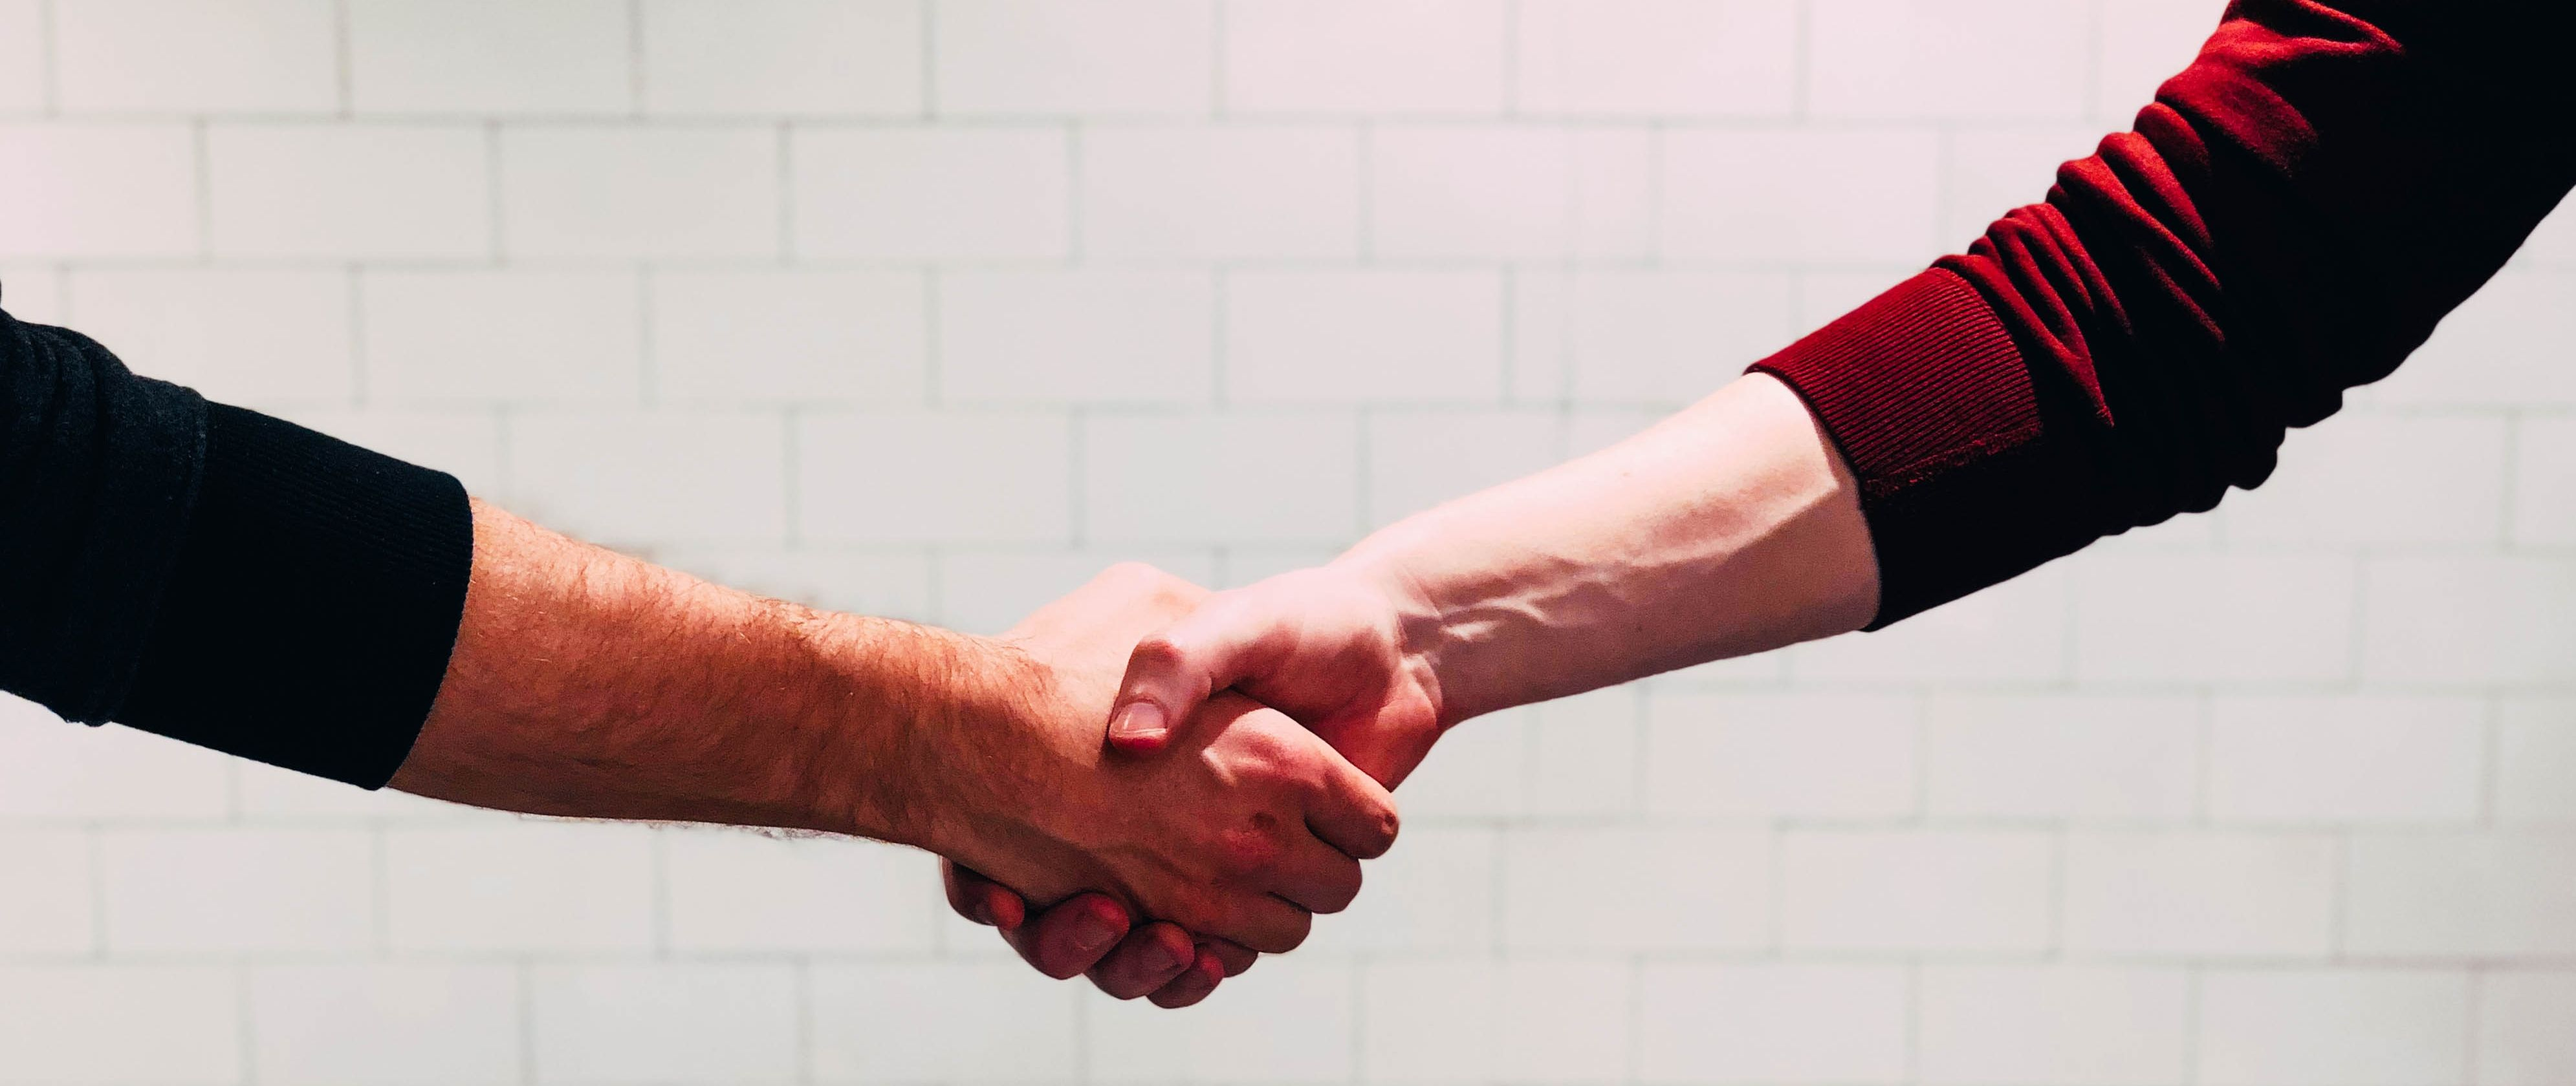
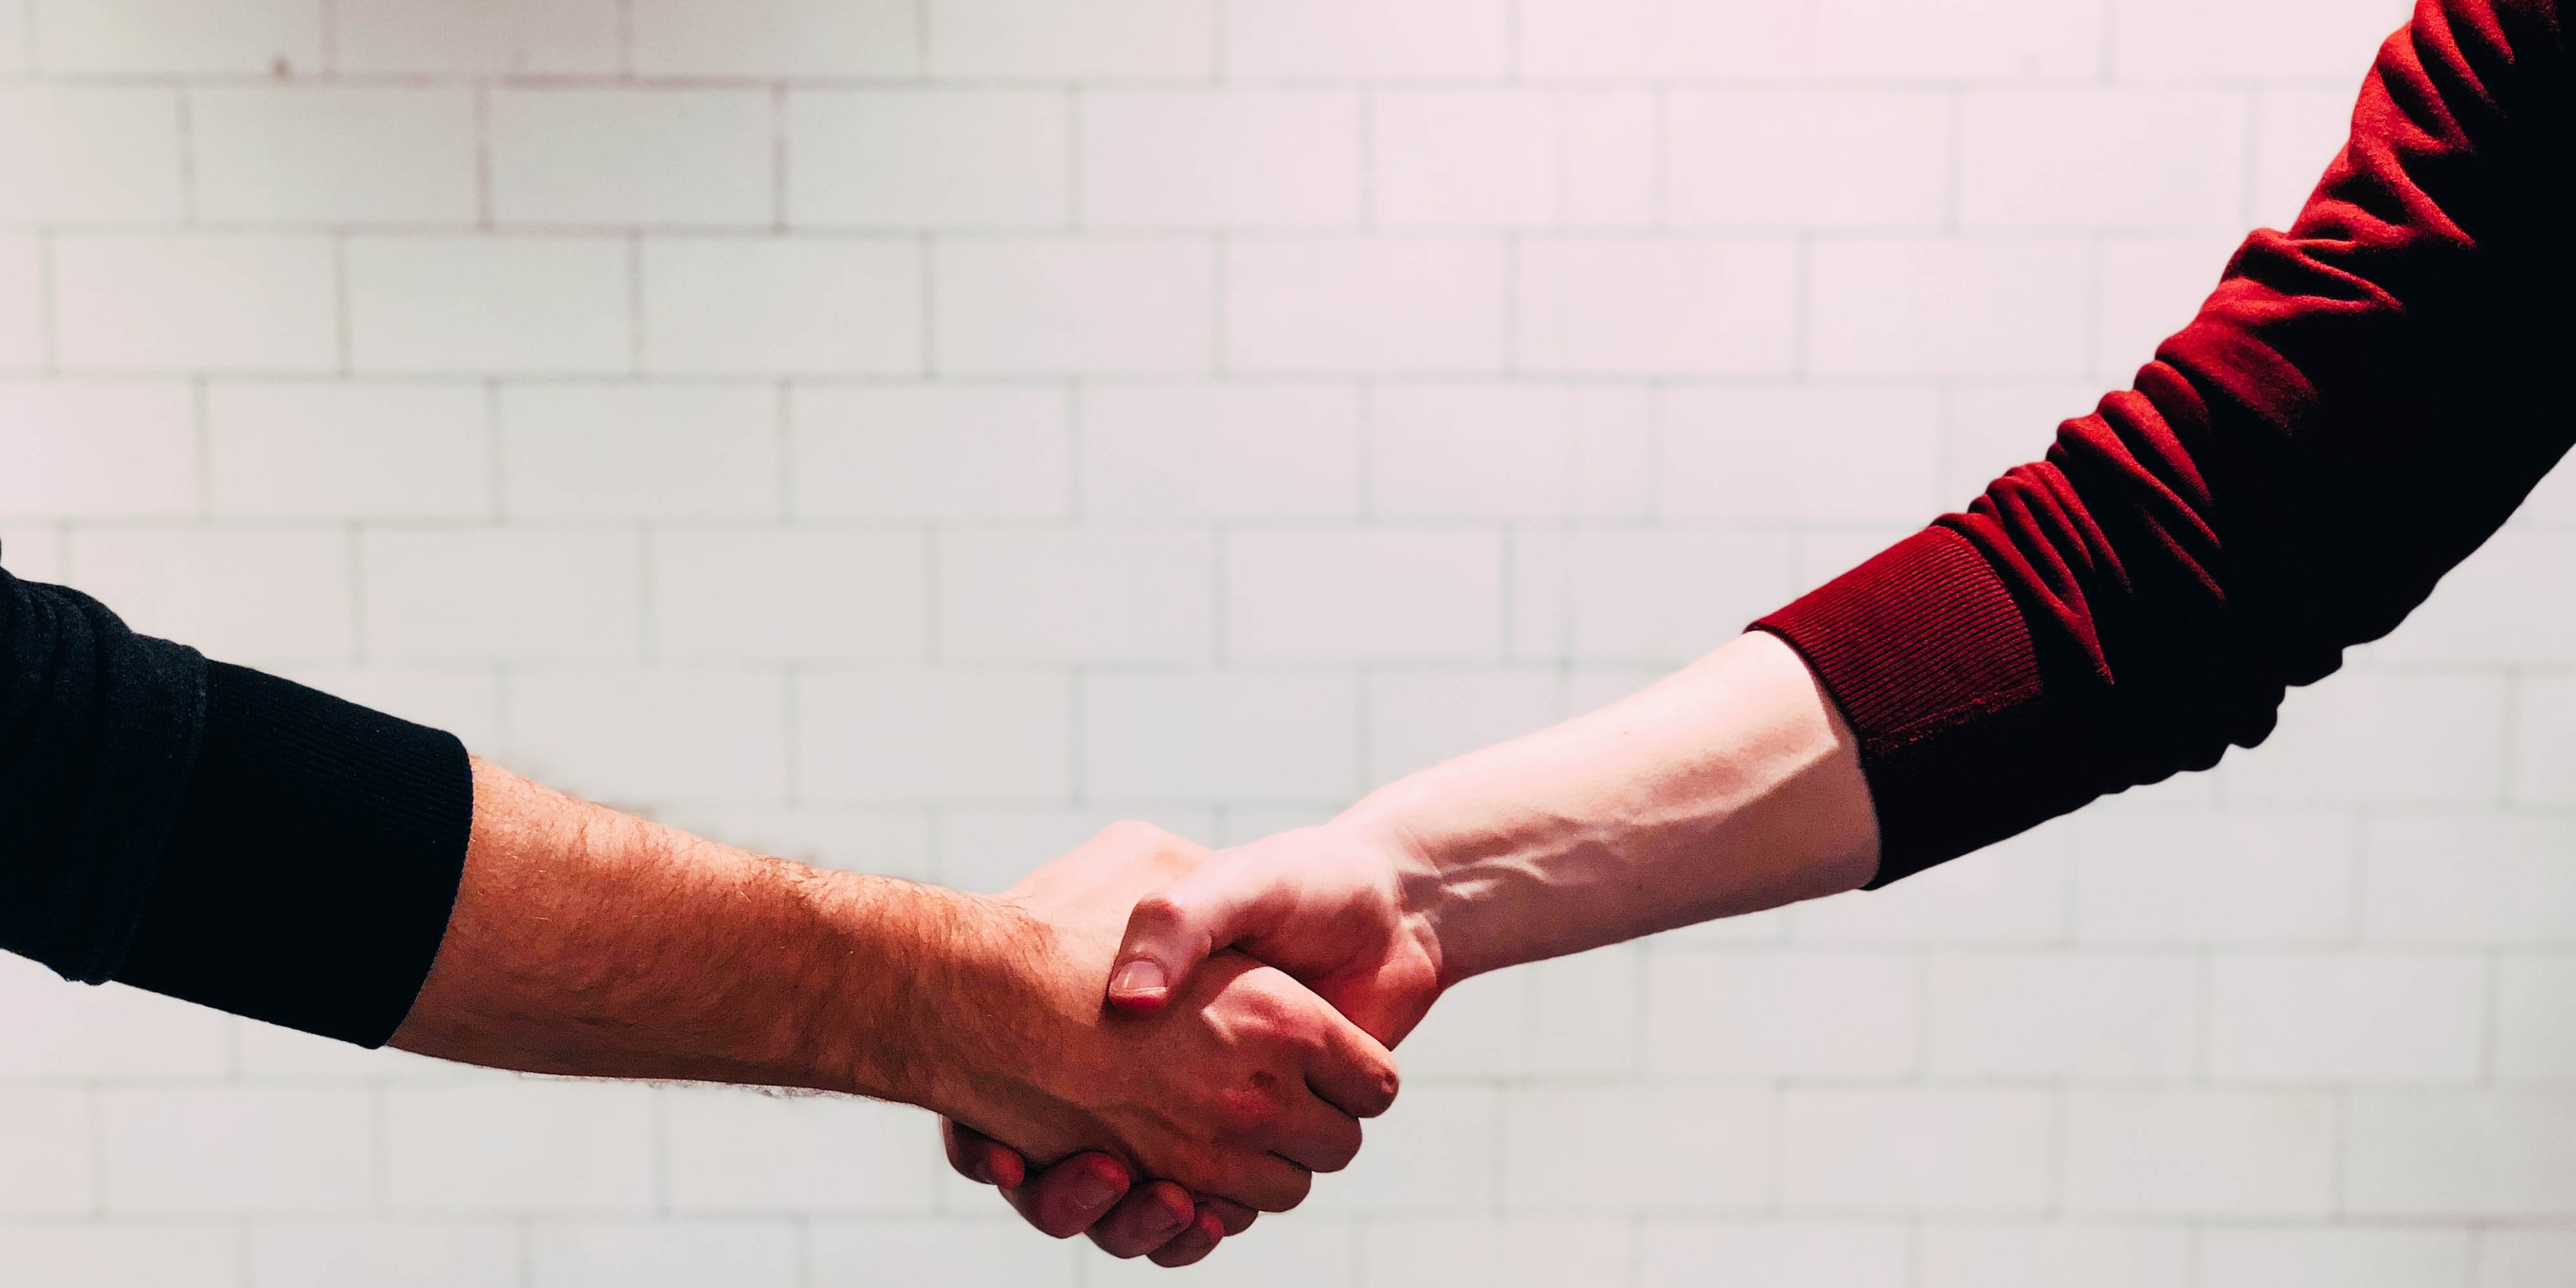
desktop layout done

diff --git a/src/pages/webapplications.module.css b/src/pages/webapplications.module.css
@@ -150,9 +150,8 @@
   place-content: center;
   margin-bottom: 38px;
   background-color: white;
-  padding: 37px 0;
+  height: 44.8vw;
   border-radius: 4px;
-  height: 7.91vw;
 }
 
 .howrefer {
@@ -217,8 +216,36 @@
     display: none;
   }
   .howcontainer {
+    border-top: 1px solid #616161;
+  }
+  .howinner {
     display: grid;
     grid-template-columns: repeat(3, 1fr);
-    border-top: 1px solid #616161;
+    width: 90%;
+    max-width: 1080px;
+    margin: 0 auto;
+  }
+  .loyaltyhow{
+    border-bottom: none;
+  }
+  .customerexperience{
+    border-bottom: none;
+    padding-top: 38px;
+  }
+  .emailauto{
+    border-bottom: none;
+  }
+  .auth{
+    height: 162px;
+  }
+  .emailimage{
+    height: 162px;
+  }
+  .customerimage{
+    padding-top: 56px;
+    padding-bottom: 56px ;
+  }
+  .howrefer{
+    padding: 26px 0;
   }
 }

diff --git a/src/pages/web-applications.js b/src/pages/web-applications.js
@@ -357,6 +357,7 @@ const WebApplications = () => {
         </div>
         <h2 style={{textAlign: 'center'}}><div className={styles.inner}>How customer retention can be implemented for the web</div></h2>
         <div className={styles.howcontainer}>
+          <div className={styles.howinner}>
           <div className={styles.customerexperience}>
             <div className={styles.inner}>
               <div className={styles.customerimage}>
@@ -548,6 +549,7 @@ const WebApplications = () => {
               </p>
             </div>
           </div>
+        </div>
         </div>
       </div>
       <div>
